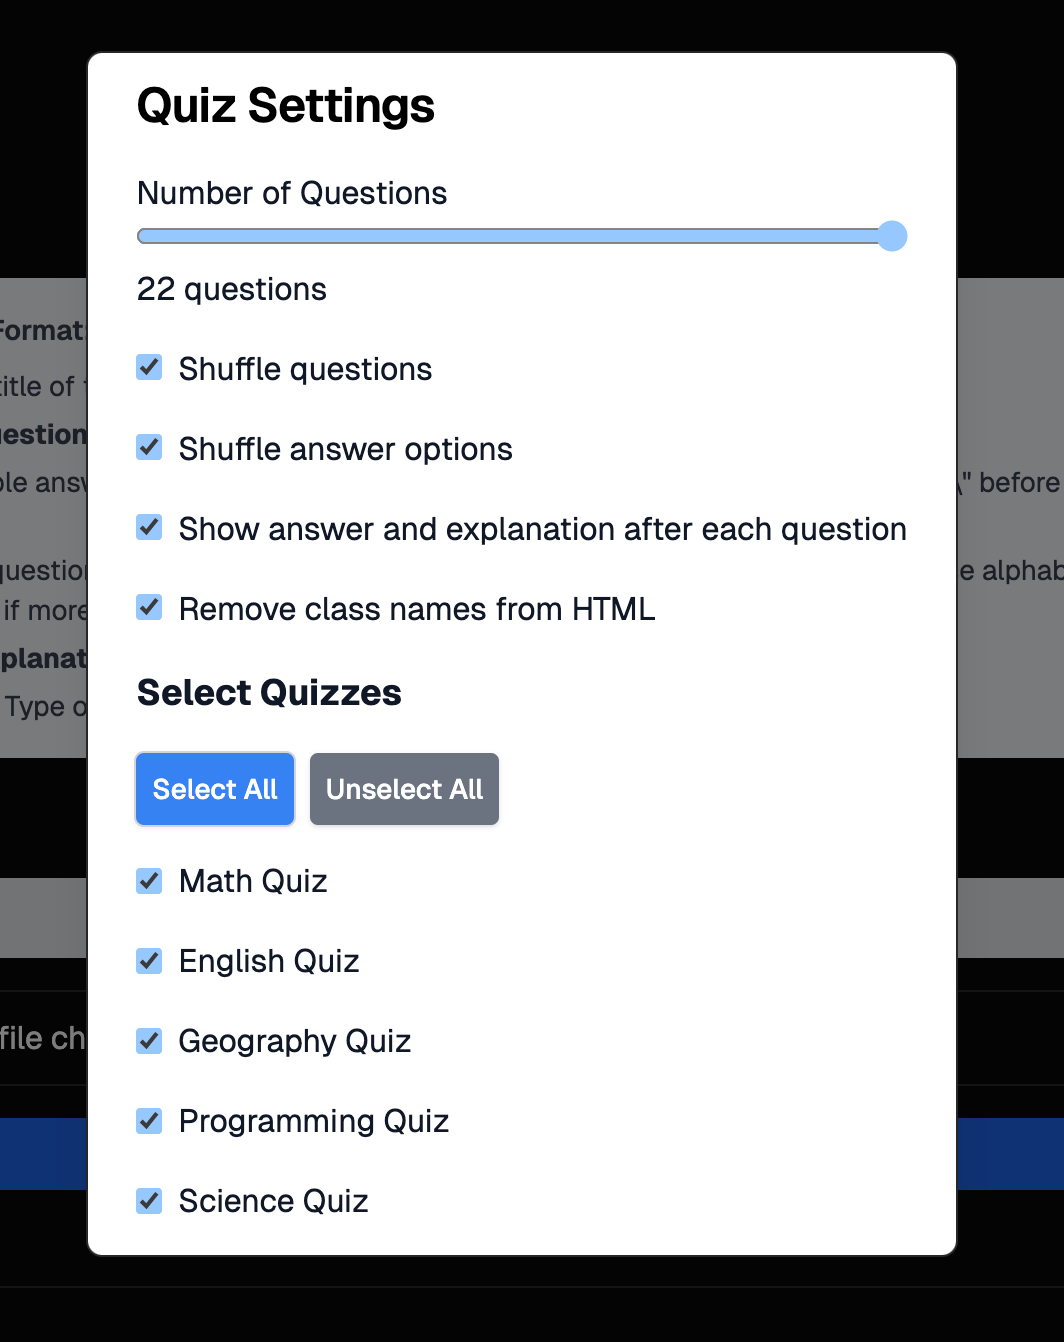
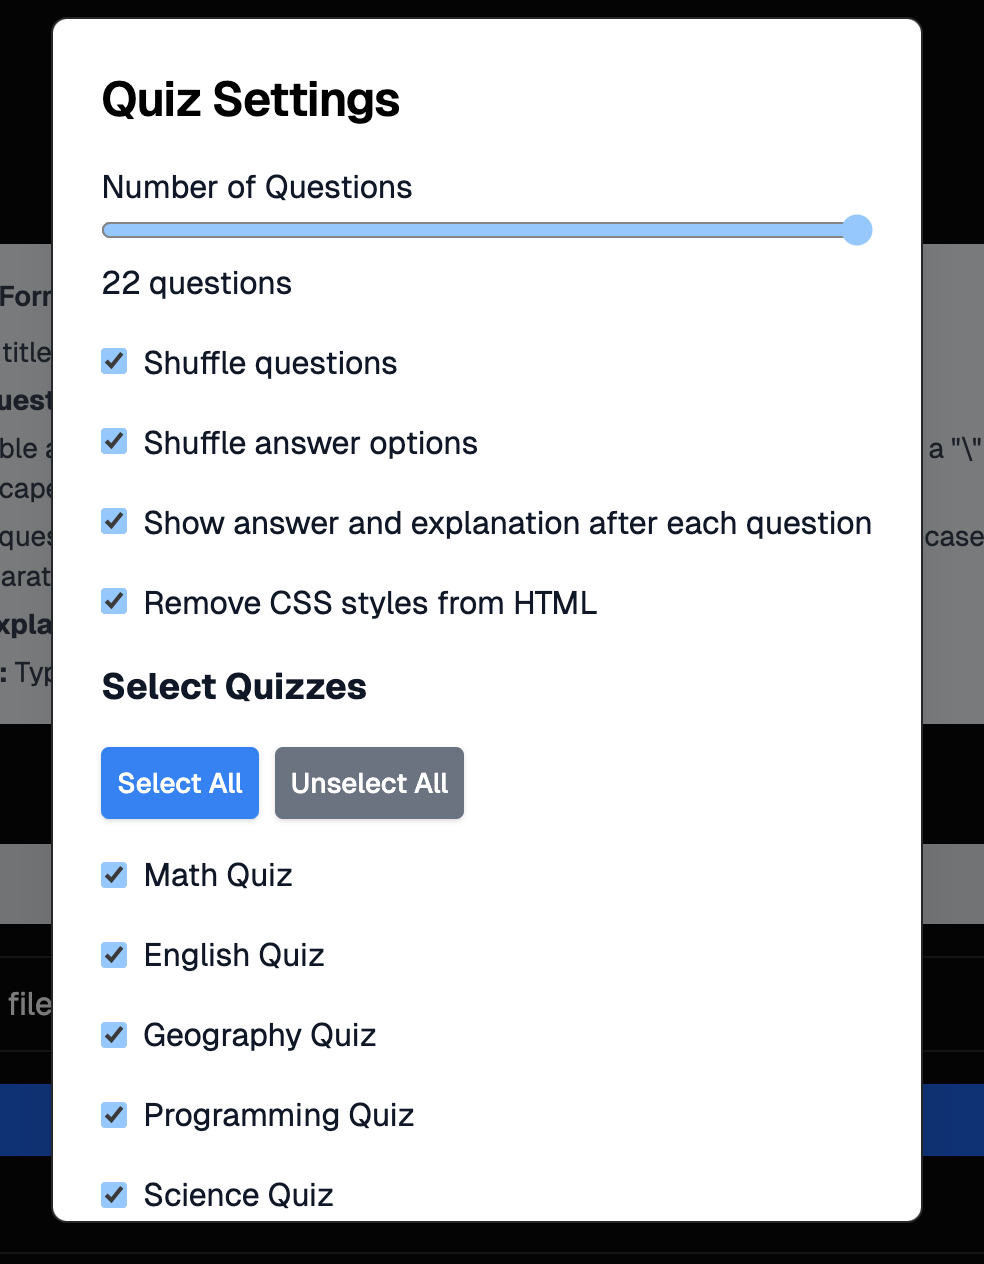
modify remove CSS style settings

Changed region(s): [[0.0, 0.0, 1.0, 0.9873]]

diff --git a/app/(preview)/page.tsx b/app/(preview)/page.tsx
@@ -42,7 +42,7 @@ export default function Files() {
   const [shuffleQuestions, setShuffleQuestions] = useState(true);
   const [shuffleAnswers, setShuffleAnswers] = useState(true);
   const [showAnswer, setShowAnswer] = useState(true);
-  const [removeClassNames, setRemoveClassNames] = useState(true); // Add state for the checkbox
+  const [removeStyles, setRemoveStyles] = useState(true);
   const [quizReady, setQuizReady] = useState(false); // Track quiz rendering
   const [selectedQuestions, setSelectedQuestions] = useState<Question[]>([]);
 
@@ -51,8 +51,8 @@ export default function Files() {
     setNumberOfQuestions(Math.max(numberOfQuestions, selectedQuestions.length));
   }, [quizTitles, selectedQuestions]);
   // Add this helper function to remove all className attributes
-  const removeClassNamesFromHTML = (html: string) => {
-    return html.replace(/ class="[^"]*"/g, "");
+  const removeStylesFromHTML = (html: string) => {
+    return html.replace(/ style="[^"]*"/g, "");
   };
   const handleFileChange = (e: React.ChangeEvent<HTMLInputElement>) => {
     const selectedFiles = Array.from(e.target.files || []);
@@ -96,10 +96,10 @@ export default function Files() {
     const formattedQuestions = parsedData
       .map((row: any) => {
         const title = row["Quiz title"]?.trim();
-        const question = removeClassNamesFromHTML(
+        const question = removeStylesFromHTML(
           row["HTML of the question"]?.trim() || ""
         );
-        const explanation = removeClassNamesFromHTML(
+        const explanation = removeStylesFromHTML(
           row["HTML of the explanation to the answer"]?.trim() || ""
         );
         // Check if 'type' is equal to "mc"
@@ -457,11 +457,11 @@ export default function Files() {
               <div>
                 <input
                   type="checkbox"
-                  checked={removeClassNames}
-                  onChange={() => setRemoveClassNames(!removeClassNames)}
+                  checked={removeStyles}
+                  onChange={() => setRemoveStyles(!removeStyles)}
                   className="mr-2"
                 />
-                Remove class names from HTML
+                Remove CSS styles from HTML
               </div>
               <h3 className="text-lg font-bold">Select Quizzes</h3>
               <div className="flex space-x-2 mb-2">

diff --git a/components/quiz.tsx b/components/quiz.tsx
@@ -95,7 +95,7 @@ const QuestionCard: React.FC<{
       </div>
 
       {/* Show explanation if isChecked is true */}
-      {isChecked && (
+      {isChecked && showAnswer && (
         <div className="mt-4 p-4 border border-gray-300 rounded bg-gray-100">
           <h3 className="font-semibold text-lg text-gray-700">Explanation:</h3>
           <p
@@ -307,19 +307,10 @@ export default function Quiz({ questions, clearCSV, showAnswer }: QuizProps) {
                       <QuizReview questions={questions} userAnswers={answers} />
                     </div>
                     <div className="flex justify-center space-x-4 pt-4">
-                      <Button
-                        onClick={handleReset}
-                        variant="outline"
-                        className="bg-muted hover:bg-muted/80 w-full"
-                      >
-                        <RefreshCw className="mr-2 h-4 w-4" /> Reset Quiz
+                      <Button onClick={handleReset} variant="secondary">
+                        Restart
                       </Button>
-                      <Button
-                        onClick={clearCSV}
-                        className="bg-primary hover:bg-primary/90 w-full"
-                      >
-                        <FileText className="mr-2 h-4 w-4" /> Try Another PDF
-                      </Button>
+                      <Button onClick={clearCSV}>Return to home page</Button>
                     </div>
                   </div>
                 )}

diff --git a/README.md b/README.md
@@ -44,7 +44,7 @@ If any of the columns are incorrect in the question row, the quiz will omit the 
    - You can customise the number of questions to include in the quiz using a range slider.
    - Choose whether to shuffle the questions and the answer options.
    - Toggle whether to show the answer and explanation after each question.
-   - Choose whether to remove all className-related unwanted CSS styles inside the HTML code.
+   - Choose whether to remove all unwanted CSS styles inside the HTML code.
    - Filter questions by quiz titles.
 
 5. **Generate Quiz**  
